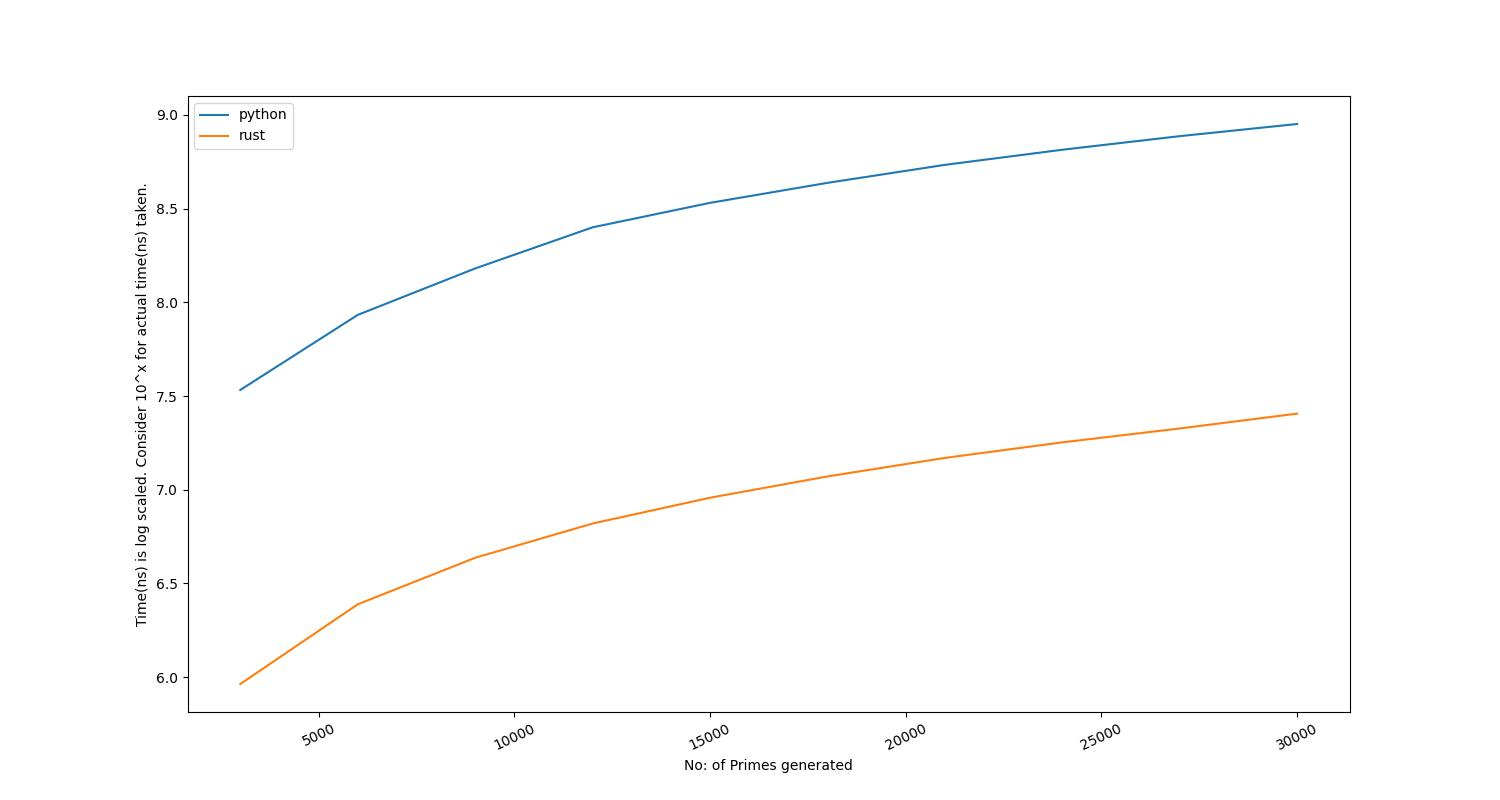
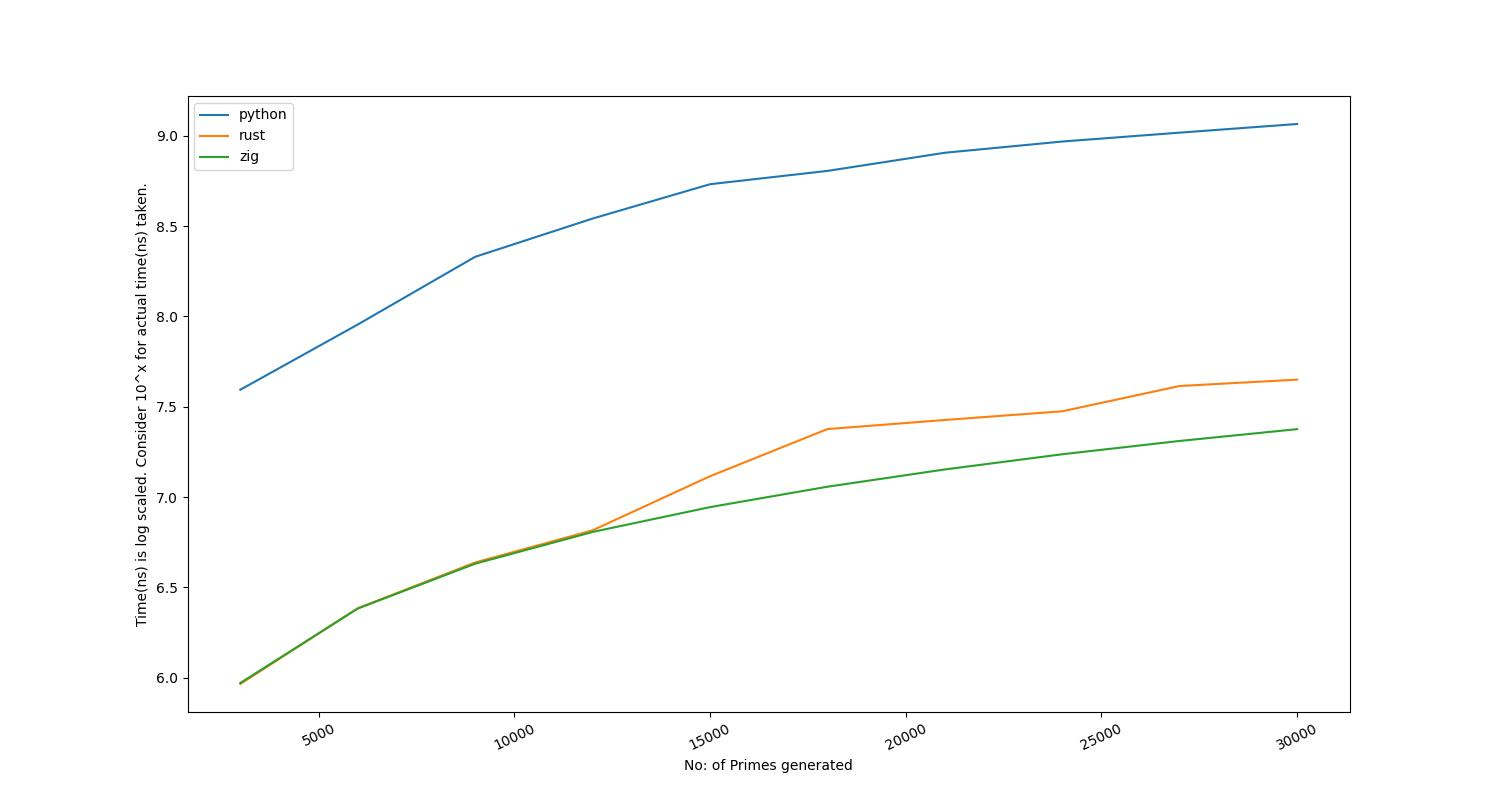
benchmark image and updated Reamdme

diff --git a/README.md b/README.md
@@ -7,5 +7,6 @@ Note: The above graph is autogenerated for every github action run. Tweak the pa
 
 |Language|nth prime|time taken|
 |---|---|---|
-|python|30000|0.895s|
-|rust|30000|0.025s|
+|python|30000|1.164s|
+|rust|30000|0.045s|
+|zig|30000|0.024s|
